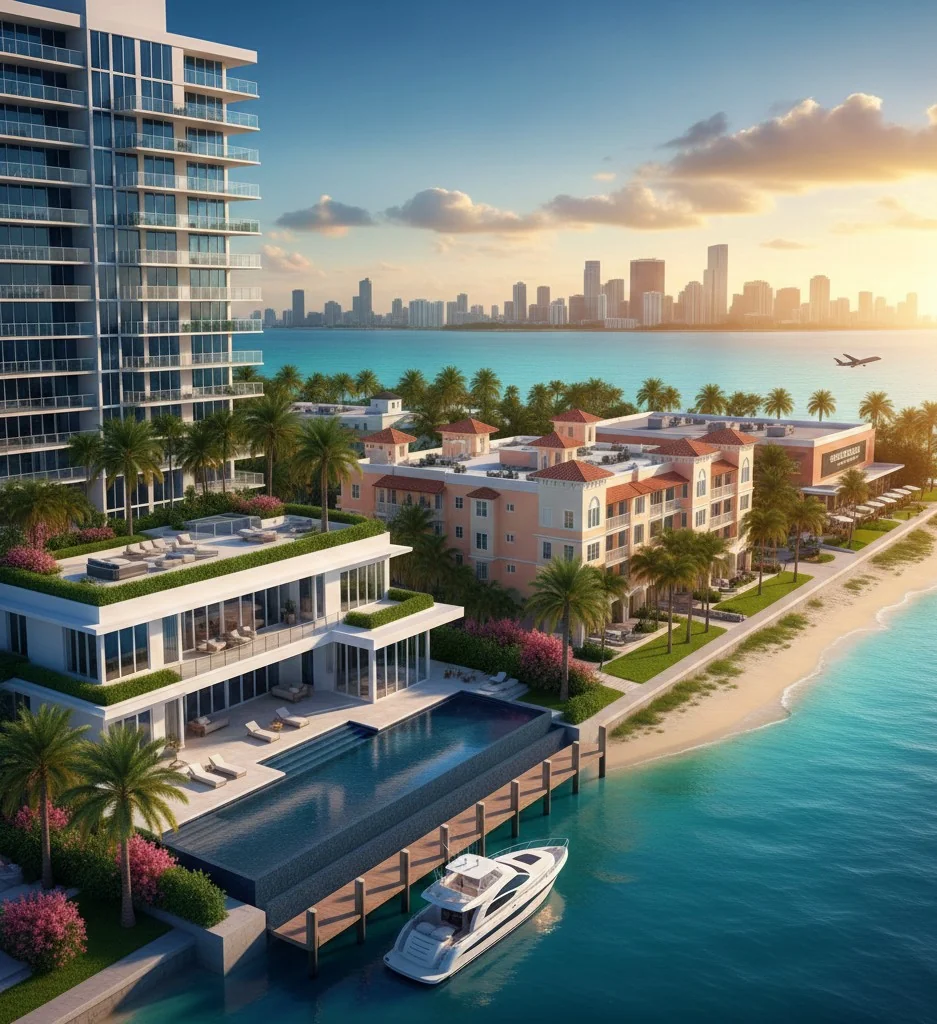
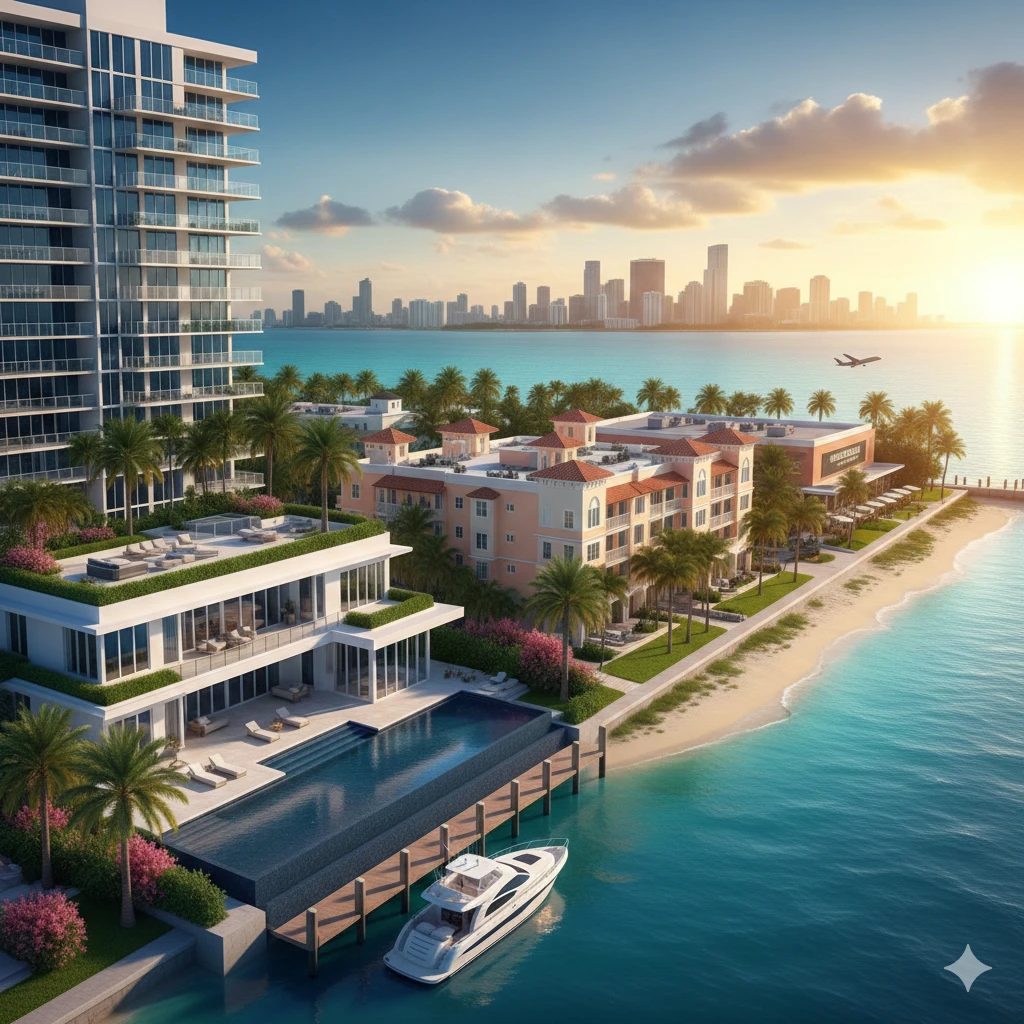
fix: enlarge photo in Work with Elena section and replace circle crop with rounded card

diff --git a/website/components/WorkWithElena.tsx b/website/components/WorkWithElena.tsx
@@ -37,15 +37,15 @@ export default function WorkWithElena({ data }: WorkProps) {
             </ul>
           </div>
 
-          <div className="lg:col-span-5 flex justify-center">
-            {/* Circular Photo matching vc_box_circle_2 image01.webp with head completely in frame */}
-            <div className="relative w-64 sm:w-72 h-64 sm:h-72 rounded-full overflow-hidden shadow-2xl border-6 border-[#f7fbfc] bg-white">
+          <div className="lg:col-span-5 flex justify-center lg:justify-end">
+            <div className="relative w-full max-w-[480px] aspect-square rounded-3xl overflow-hidden shadow-xl border border-gray-100 bg-white">
               <Image
                 src="/images/image01.webp"
                 alt="Work with Elena Stazhkova"
                 fill
-                className="object-cover object-top"
-                sizes="(max-width: 768px) 250px, 300px"
+                className="object-cover object-center"
+                sizes="(max-width: 1024px) 100vw, 480px"
+                priority
               />
             </div>
           </div>
